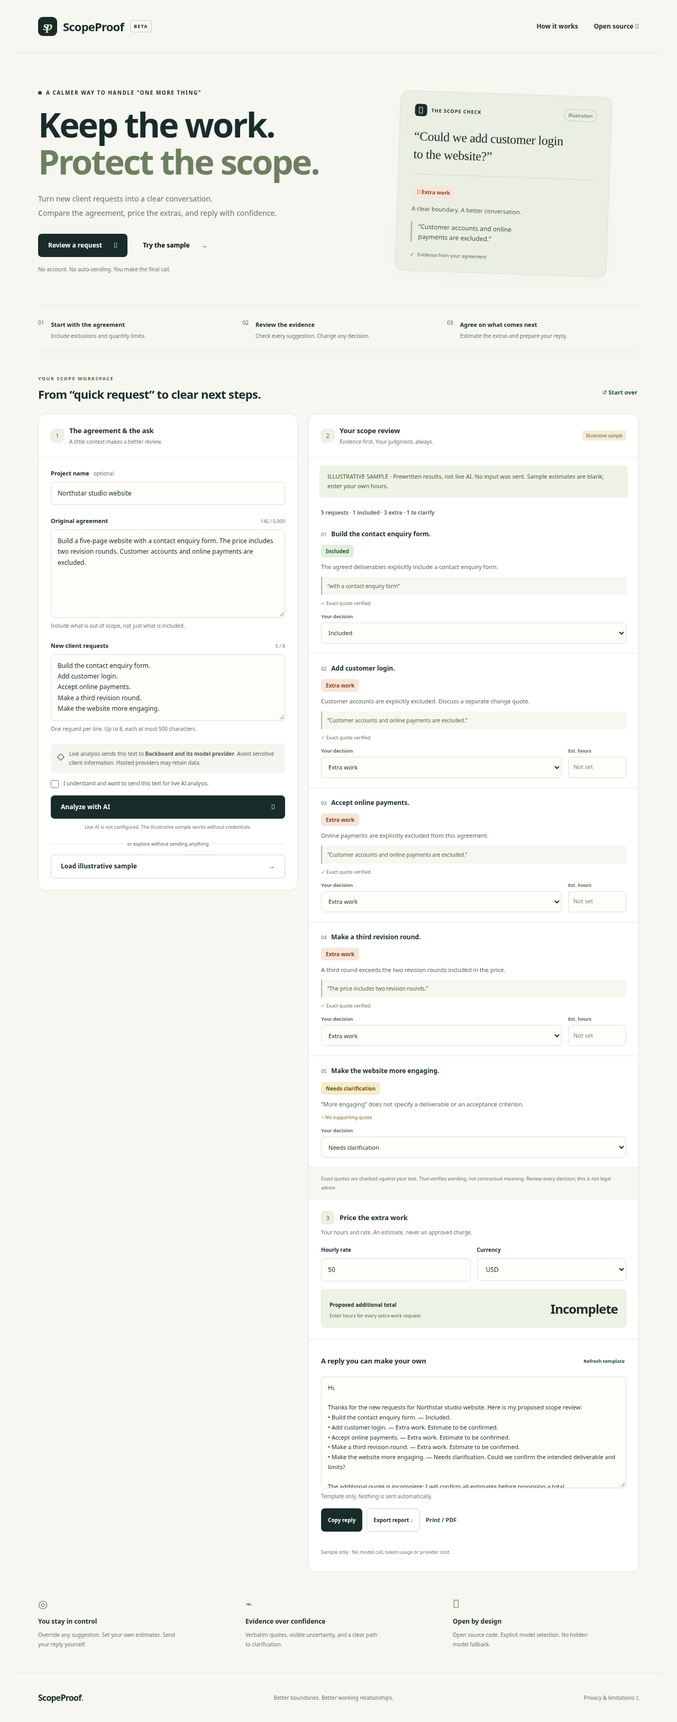
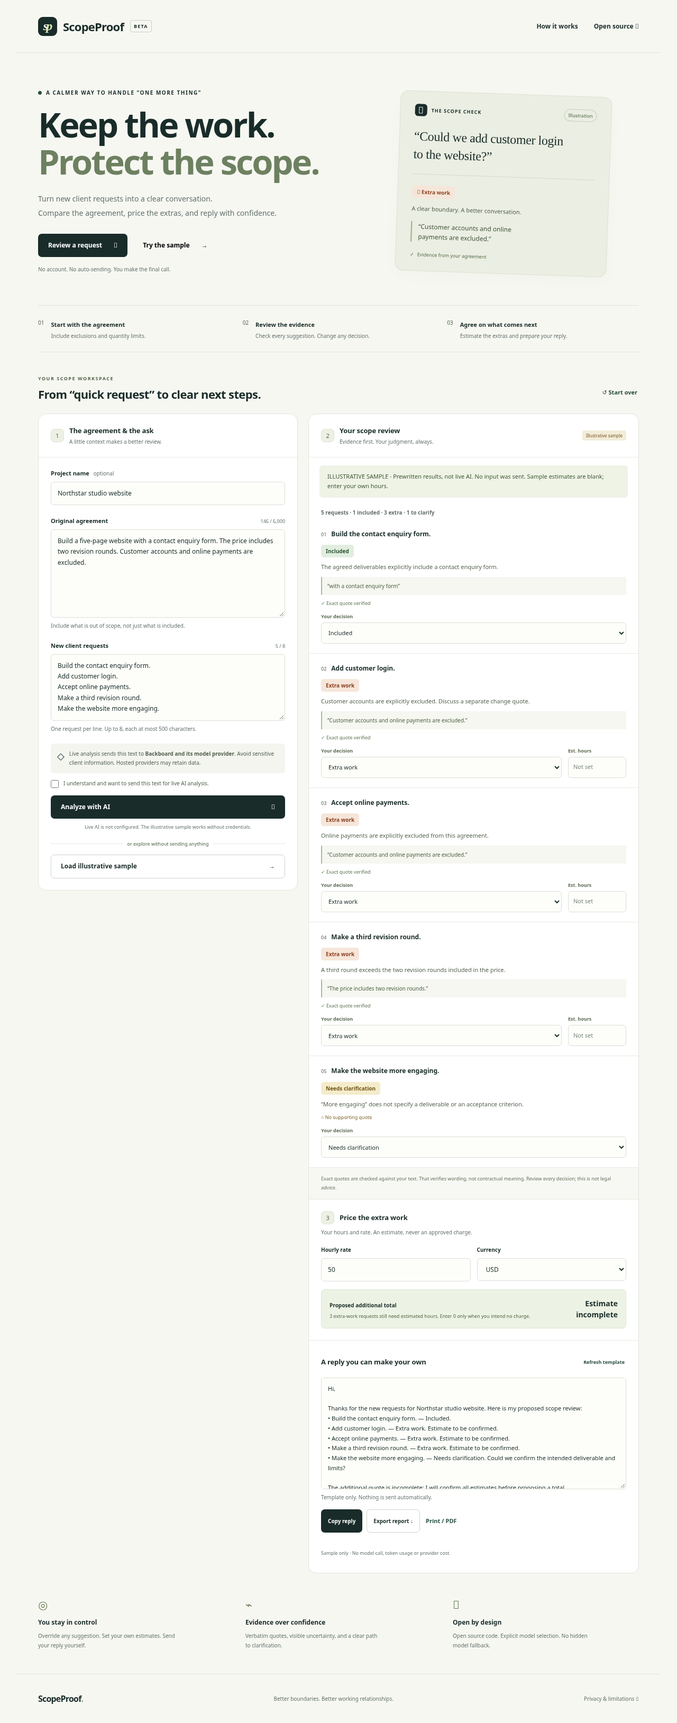
Clarify missing-hours quote status and refine evidence-based DEV draft

diff --git a/public/styles.css b/public/styles.css
@@ -1,5 +1,6 @@
 :root{--bg:#f7f7f2;--paper:#fff;--ink:#192c29;--muted:#62706b;--line:#dfe4db;--green:#294f40;--lime:#d9e9ac;--orange:#bd5b37;--red:#a3302b;--radius:15px;color-scheme:light;font-family:Inter,ui-sans-serif,system-ui,-apple-system,BlinkMacSystemFont,"Segoe UI",sans-serif;color:var(--ink);background:var(--bg);font-synthesis:none}*{box-sizing:border-box}body{margin:0}button,input,textarea,select{font:inherit}button,a,input,textarea,select{-webkit-tap-highlight-color:transparent}button,a{touch-action:manipulation}button{cursor:pointer}a{color:inherit;text-decoration:none}a:hover{text-decoration:underline}button:disabled{opacity:.6;cursor:wait}:focus-visible{outline:3px solid #3673c4;outline-offset:4px}input:focus,textarea:focus,select:focus{outline:2px solid var(--green);outline-offset:1px}[hidden]{display:none!important}.wrap{max-width:1220px;margin:auto;padding-inline:42px}.site-header{height:100px;display:flex;align-items:center;justify-content:space-between;border-bottom:1px solid var(--line)}.brand{display:flex;gap:11px;align-items:center;font-size:22px;font-weight:750;letter-spacing:-.8px}.brand-mark{display:inline-flex;border-radius:9px;background:var(--ink);color:var(--bg);height:36px;width:36px;align-items:center;justify-content:center;font-family:Georgia,serif;font-size:24px;gap:0;font-style:italic}.brand-mark span{color:var(--lime);margin-left:-3px}.beta{border:1px solid #c5cfc1;font-size:9px;letter-spacing:1.2px;border-radius:4px;padding:4px 6px;margin-left:1px;font-weight:600}.site-header nav{display:flex;gap:30px;font-size:12px;font-weight:600}.hero{display:grid;grid-template-columns:1.35fr 1fr;gap:64px;padding:67px 0 59px;align-items:center}.eyebrow{font-size:10px;letter-spacing:1.5px;font-weight:700;text-transform:uppercase;display:flex;align-items:center;gap:8px;margin:0 0 18px}.status-dot{display:inline-block;width:7px;height:7px;border-radius:50%;background:var(--green)}h1{font-size:clamp(44px,5.2vw,65px);font-weight:640;letter-spacing:-3px;line-height:1.08;margin:0 0 23px}h1 span{color:#6d8060}.hero-description{font-size:14px;line-height:1.9;color:var(--muted);margin:0 0 25px}.hero-actions{display:flex;gap:10px}.button{display:inline-flex;align-items:center;justify-content:center;gap:22px;font-size:12px;line-height:1.4;font-weight:650;padding:13px 18px;border-radius:7px;border:1px solid transparent;min-height:44px;text-decoration:none}.button:hover{text-decoration:none;filter:brightness(.95)}.primary{background:var(--ink);color:white}.secondary{background:white;color:var(--ink);border-color:#cbd4ca}.quiet{background:transparent}.hero-note{font-size:10px;color:var(--muted);margin:16px 0 0}.hero-card{background:#ebeee2;border:1px solid #dce1d0;padding:24px 27px;border-radius:var(--radius);transform:rotate(2deg);max-width:400px;margin:10px 4px 0 0;box-shadow:0 10px 30px #26392605}.card-caption{display:flex;align-items:center;gap:8px;font-size:9px;letter-spacing:1px;font-weight:750}.tiny-mark{display:flex;width:23px;height:23px;background:var(--ink);color:white;border-radius:6px;align-items:center;justify-content:center;font-size:17px}.example-pill{margin-left:auto;font-size:9px;text-transform:none;letter-spacing:0;font-weight:500;border:1px solid #c6d0bb;padding:4px 7px;border-radius:20px;color:#4b6044}.client-message{font-family:Georgia,serif;font-size:24px;line-height:1.4;letter-spacing:-.4px;margin:22px 0 20px}.example-rule{height:1px;background:#d3dbc9;margin-bottom:20px}.badge{font-size:10px;padding:5px 9px;display:inline-block;border-radius:5px;font-weight:700}.extra{background:#f6e6d9;color:#8e4022}.included{background:#e2ede0;color:#2d5734}.clarification{background:#f4ecca;color:#735619}.example-reason{font-size:11px;color:#54624e;margin:12px 0 17px}.hero-card blockquote{border-left:2px solid #9caf80;padding:0 0 0 12px;margin:0;color:#45573e;font-size:12px;line-height:1.6}.verified-line{font-size:9px;color:#526b48;margin-top:17px;display:flex;gap:6px}.steps{list-style:none;display:grid;grid-template-columns:repeat(3,1fr);padding:23px 0;margin:0;border-block:1px solid var(--line);gap:24px}.steps li{display:flex;gap:13px}.steps li>span{font-size:10px;color:#6a785c;padding-top:2px}.steps strong{font-size:11px;font-weight:700}.steps p{font-size:10px;color:var(--muted);margin:5px 0 0}.workspace-heading{display:flex;justify-content:space-between;align-items:flex-end;margin:43px 0 22px;gap:15px}.workspace-heading .eyebrow{font-size:9px;margin-bottom:8px;color:#68785e}.workspace-heading h2{font-size:22px;letter-spacing:-.6px;font-weight:650;margin:0}.text-button{font-size:11px;color:var(--green);background:none;border:0;padding:8px 3px;min-height:36px;font-weight:650}.text-button:hover{text-decoration:underline}.workspace-grid{display:grid;grid-template-columns:minmax(0,.88fr) minmax(0,1.12fr);gap:20px;align-items:start}.panel{border:1px solid var(--line);background:var(--paper);border-radius:var(--radius);overflow:hidden}.panel-heading{display:flex;align-items:center;gap:10px;border-bottom:1px solid #e9ece5;padding:22px 23px}.step-number{display:inline-flex;width:25px;height:25px;background:#edf1e5;border:1px solid #dce4d1;align-items:center;justify-content:center;color:#526844;font-size:11px;border-radius:7px;flex-shrink:0}.panel h3{margin:0;font-size:13px;letter-spacing:-.15px}.panel-heading p{font-size:10px;color:var(--muted);margin:5px 0 0}form{padding:22px 23px}label{display:block;font-size:11px;font-weight:650;margin-bottom:9px}.optional{font-weight:400;color:var(--muted);font-size:10px;margin-left:5px}input:not([type=checkbox]),textarea,select{width:100%;border:1px solid #d9dfd5;border-radius:6px;background:#fdfefa;color:var(--ink);font-size:12px;padding:11px 12px;line-height:1.7;min-height:43px}textarea{resize:vertical;display:block}textarea::placeholder,input::placeholder{color:#7a857e;opacity:1}.label-row{display:flex;align-items:baseline;justify-content:space-between;gap:8px;margin-top:22px}.counter{font-size:9px;color:var(--muted)}.field-help{font-size:10px;color:var(--muted);line-height:1.6;margin:7px 0 0}.privacy-note{display:flex;gap:9px;background:#f4f5ef;border-radius:6px;padding:11px 12px;margin:20px 0 11px}.privacy-note>span{font-size:18px;line-height:1.4}.privacy-note p{font-size:10px;color:#53614f;line-height:1.7;margin:0}.privacy-note strong{font-weight:650}.checkbox-label{display:flex;align-items:flex-start;gap:6px;font-size:10px;line-height:1.6;color:#51604c;margin-bottom:14px;font-weight:450}.checkbox-label input{accent-color:var(--green);margin:2px 3px 0 0;min-width:15px;min-height:15px}.full{width:100%;justify-content:space-between}.provider-status{font-size:9px;line-height:1.6;text-align:center;color:var(--muted);margin:9px 0 17px}.or-line{display:flex;align-items:center;gap:8px;color:#74816b;font-size:9px;margin:0 0 14px}.or-line:before,.or-line:after{content:"";height:1px;flex:1;background:#e3e7de}.review-panel{min-height:761px}.empty-state{padding:96px 20px 80px;text-align:center}.document-art{position:relative;width:73px;height:88px;margin:0 auto 28px;background:#f5f6ef;border:1px solid #dce3d3;border-radius:9px;transform:rotate(-7deg);padding:18px 14px;box-shadow:6px 6px 0 #f4f6f0}.document-art>div{height:4px;background:#d8e0cd;margin:7px 0;border-radius:2px}.document-art>div:first-child{width:65%;height:5px;margin:0 0 12px;background:#bdcbaa}.document-art>div:last-of-type{width:65%}.document-art>span{position:absolute;bottom:-8px;right:-12px;display:grid;place-items:center;width:29px;height:29px;color:#45653e;background:var(--lime);border:3px solid #fff;border-radius:50%;font-size:13px}.empty-state h4{font-size:17px;letter-spacing:-.3px;font-weight:600;margin:0 0 11px}.empty-state p{font-size:11px;line-height:1.9;color:var(--muted);margin:0 0 13px}.empty-chips{display:flex;justify-content:center;gap:6px;margin-top:47px;flex-wrap:wrap}.empty-chips span{font-size:9px;border:1px solid #e3e7dc;border-radius:20px;padding:6px 10px;color:#66745c;background:#fafbf7}.source-pill{font-size:8px;padding:4px 7px;background:#f2ecd9;color:#765725;margin-left:auto;border-radius:4px;white-space:nowrap}.notice,.error{font-size:11px;line-height:1.7;padding:12px 15px;margin:15px 20px;border-radius:6px;overflow-wrap:anywhere}.notice{background:#eef3e6;color:#435936}.error{background:#fcf0ee;color:var(--red);border:1px solid #edd1cb}.review-summary{font-size:10px;font-weight:600;line-height:1.7;color:var(--muted);padding:0 23px;margin:20px 0 4px}.review-row{padding:18px 23px;border-bottom:1px solid #e9ece5}.request-title{display:flex;gap:9px;align-items:baseline;margin-bottom:10px}.request-title span{font-size:9px;color:#718065}.request-title h4{font-size:12px;margin:0;font-weight:650;line-height:1.6;overflow-wrap:anywhere}.review-reason{font-size:11px;line-height:1.7;color:#56634f;margin:9px 0}.evidence{font-size:10px;line-height:1.8;margin:9px 0;background:#f5f7f0;border-left:2px solid #aabd91;padding:8px 10px;color:#506345;overflow-wrap:anywhere}.evidence-note{font-size:9px;color:#5d7350;margin:7px 0}.evidence-note.missing{color:#806429}.decision-controls{display:flex;align-items:end;gap:12px;margin-top:12px}.decision-controls>div:first-child{flex:1}.decision-controls label{font-size:9px;margin:0 0 5px;color:#5c6b54}.decision-controls select,.decision-controls input{font-size:11px;min-height:40px;padding:7px 9px}.hours-control{width:110px}.override-note{font-size:9px;color:#8d4b2d;margin:8px 0 0}.review-caution{font-size:9px;line-height:1.8;background:#f7f8f3;padding:13px 23px;margin:0;color:#63715c}.quote-section,.reply-section{padding:22px 23px;border-top:1px solid #e4e9df}.section-label{display:flex;align-items:center;gap:10px}.quote-controls{display:grid;grid-template-columns:1fr 1fr;gap:12px;margin-top:18px}.quote-controls label{font-size:10px}.quote-total{display:flex;justify-content:space-between;align-items:center;gap:12px;background:#edf3e4;border:1px solid #dce6d0;padding:15px;border-radius:7px;margin-top:15px}.quote-total span{font-size:10px;font-weight:600}.quote-total small{display:block;font-size:9px;color:#647657;margin-top:5px}.quote-total strong{font-size:24px;letter-spacing:-1px}.quote-section .error{margin:12px 0}.reply-heading{display:flex;align-items:center;justify-content:space-between;gap:10px;margin-bottom:12px}.reply-heading h3{max-width:215px;line-height:1.6}.reply-heading button{font-size:9px}.reply-section textarea{font-size:11px}.export-actions{display:flex;gap:8px;margin-top:15px;flex-wrap:wrap}.export-actions .button{font-size:10px;padding:11px 12px;gap:5px}.analysis-meta{font-size:9px;color:var(--muted);padding:0 23px 20px;line-height:1.8}.principles{display:grid;grid-template-columns:repeat(3,1fr);gap:40px;padding:45px 0}.principles>div>span{font-size:21px;color:#667b53}.principles h3{font-size:12px;margin:11px 0 8px;font-weight:650}.principles p{font-size:10px;line-height:1.8;color:var(--muted);max-width:260px;margin:0}footer{display:flex;justify-content:space-between;gap:20px;align-items:center;border-top:1px solid var(--line);min-height:93px}footer .brand{font-size:16px;gap:0}.footer-dot{color:#81966b}footer p,footer>a:last-child{font-size:10px;color:var(--muted)}.sr-only,.skip-link{position:absolute;left:-10000px;top:auto;width:1px;height:1px;overflow:hidden}.skip-link:focus{position:fixed;left:16px;top:16px;width:auto;height:auto;z-index:20;padding:12px;background:white}#print-report{display:none}
 .steps li>span,.workspace-heading .eyebrow,.or-line,.request-title span,.quote-total small{color:#526348}
+.quote-total>div{min-width:0}.quote-total strong.estimate-incomplete{font-size:14px;line-height:1.5;letter-spacing:0;max-width:105px;text-align:right;flex-shrink:0}
 @media(min-width:1300px){.hero{padding-top:76px;padding-bottom:68px}.hero-card{justify-self:end;width:380px}}
 @media(max-width:900px){.wrap{padding-inline:25px}.hero{gap:25px;grid-template-columns:1.2fr 1fr}.hero-card{padding:19px}.client-message{font-size:21px}h1{font-size:51px}.hero-description{font-size:12px}.hero-actions{gap:0}.button{gap:12px}.workspace-heading h2{font-size:20px}.workspace-grid{grid-template-columns:minmax(0,.9fr) minmax(0,1.1fr);gap:14px}.panel-heading,form,.review-row,.quote-section,.reply-section{padding-inline:18px}.source-pill{max-width:75px;white-space:normal}.steps{gap:14px}.steps p{line-height:1.6}.reply-heading{align-items:start}.quote-total strong{font-size:21px}}
 @media(max-width:680px){.wrap{padding-inline:20px}.site-header{height:78px}.brand{font-size:20px}.site-header nav{gap:16px;font-size:10px}.site-header nav a:first-child{display:none}.hero{display:block;padding:39px 0}.eyebrow{font-size:8px;letter-spacing:1.2px;margin-bottom:17px}h1{font-size:49px;letter-spacing:-2.2px}.hero-description{font-size:12px;line-height:1.8}.desktop-break{display:none}.hero-actions .button{font-size:11px;gap:15px}.hero-note{font-size:9px}.hero-card{margin:36px auto 0;transform:rotate(1deg);max-width:100%;padding:22px 24px}.client-message{font-size:23px}.hero-card br{display:none}.hero-card blockquote{font-size:11px}.steps{grid-template-columns:1fr;padding:22px 0;gap:17px}.steps li{gap:15px}.steps p{margin-top:4px}.steps strong{font-size:11px}.workspace-heading{margin:31px 0 18px;align-items:start}.workspace-heading h2{font-size:21px;line-height:1.4;max-width:245px}.workspace-heading .text-button{font-size:9px;white-space:nowrap}.workspace-heading .eyebrow{font-size:8px}.workspace-grid{grid-template-columns:1fr;gap:18px}.panel-heading,form,.review-row,.quote-section,.reply-section{padding-inline:20px}.panel-heading{padding-block:20px}.review-panel{min-height:480px}.empty-state{padding:65px 15px 40px}.empty-chips{margin-top:28px}.source-pill{max-width:none}.principles{grid-template-columns:1fr;gap:24px;padding-block:34px}.principles>div{display:grid;grid-template-columns:26px 1fr;column-gap:12px}.principles h3{margin:2px 0 6px}.principles p{grid-column:2;max-width:100%}.principles>div>span{grid-row:1/3}footer{flex-wrap:wrap;gap:8px;padding-block:22px}footer p{order:3;width:100%;margin:4px 0 0}footer>a:last-child{font-size:9px}.notice,.error{margin-inline:16px}.reply-heading h3{font-size:12px}.source-pill{font-size:8px}}

diff --git a/test/browser.py b/test/browser.py
@@ -29,8 +29,26 @@ with sync_playwright() as p:
     expect(page.locator('#review-source')).to_have_text('Illustrative sample')
     expect(page.locator('.review-row')).to_have_count(5)
     expect(page.locator('#notice')).to_contain_text('not live AI')
-    expect(page.locator('#quote-total')).to_have_text('Incomplete')
+    expect(page.locator('#quote-total')).to_have_text('Estimate incomplete')
+    expect(page.locator('#quote-detail')).to_contain_text('3 extra-work requests still need estimated hours')
     passed('clearly labelled sample and incomplete estimates')
+    for i in (2, 3, 4):
+        page.locator(f'#hours-{i}').fill('0')
+    expect(page.locator('#quote-total')).to_have_text('$0.00')
+    expect(page.locator('#reply')).to_have_value(re.compile('Proposed additional total: \\$0.00'))
+    page.locator('#hours-3').fill('')
+    expect(page.locator('#quote-total')).to_have_text('Estimate incomplete')
+    expect(page.locator('#quote-detail')).to_contain_text('1 extra-work request still needs estimated hours')
+    expect(page.locator('#reply')).to_have_value(re.compile('quote is incomplete'))
+    passed('explicit zero hours completes an estimate; clearing hours restores missing-input status')
+    with page.expect_download() as incomplete_event:
+        page.locator('#export').click()
+    incomplete_event.value.save_as(str(OUT / 'incomplete-export.txt'))
+    incomplete_report = (OUT / 'incomplete-export.txt').read_text()
+    assert 'Request 3: not estimated' in incomplete_report
+    assert 'Total: incomplete' in incomplete_report
+    assert 'Proposed additional total:' not in incomplete_report
+    passed('incomplete report export identifies missing hours and never invents a final quote')
     for i, hours in [(2, '1.25'), (3, '2'), (4, '0.5')]:
         page.locator(f'#hours-{i}').fill(hours)
     page.locator('#rate').fill('19.99')

diff --git a/docs/dev-submission.md b/docs/dev-submission.md
@@ -4,96 +4,83 @@
 
 “Could we add customer login? It should be a quick change.”
 
-The difficult part is often not estimating the code. It is explaining, calmly and specifically, why the request changes the agreement.
+For a freelancer, that request can change the agreement, the price and the working relationship.
 
-**ScopeProof turns that moment into a reviewable scope conversation.** Paste the original agreement and the client's new requests. An explicitly selected open-weight model suggests **Included**, **Extra work**, or **Needs clarification** for each request, with a short reason and a supporting scope quote where available.
+I wanted ScopeProof to make that conversation easier. It compares an agreement with new client requests and suggests **Included**, **Extra work**, or **Needs clarification**, alongside a short reason and a supporting quote when available. The freelancer can change every decision, enter estimates, edit a reply and export the review. Nothing is sent automatically.
 
-Then the freelancer takes over: change any decision, enter their own hours and rate, edit a client reply, and export the review. Nothing is sent to the client automatically.
-
-The potential buyer is a freelance developer or small studio that regularly negotiates changes. The paid value would be a consistent review and communication workflow, not another chatbot subscription. A modest paid version could offer reusable agreement templates and persistent change histories. Those are future ideas: this entry has **no paying customers, revenue or claimed user feedback**. I kept the actual product small enough to demonstrate and inspect.
+Freelance developers and small studios are the potential buyers. They might pay for a repeatable way to review changes and prepare a clear response. I have not validated that willingness to pay or claimed customers, revenue or feedback. My goal for this entry was a small, usable workflow with evidence behind its suggestions.
 
 ## Demo
 
-**[Try ScopeProof on Render](https://scopeproof.onrender.com)** · **[View the source](https://github.com/tanzilamd/scopeproof)**
+**[Open ScopeProof on Render](https://scopeproof.onrender.com)** · **[Public repository](https://github.com/tanzilamd/scopeproof)**
 
-The service uses Render's free compute plan, so a cold start can take a little time. Live AI is deliberately limited; the labelled sample remains usable without a paid inference call.
+The free Render service may need time to wake up. Start with **Load illustrative sample**: it is labelled prewritten output, makes no model call and sends nothing. For real inference, acknowledge the hosted-AI disclosure and select **Analyze with AI**.
 
-For a quick walkthrough:
+Here is the fictional before-and-after example:
 
-1. Select **Load illustrative sample**. This is explicitly prewritten output; it does not claim to be a model response and sends nothing.
-2. The fictional agreement includes a five-page website, a contact form and two revision rounds. It excludes customer accounts and online payments.
-3. Compare “Build the contact enquiry form” with “Add customer login” and “Make a third revision round.” Read the agreement quotes beside the suggestions.
-4. Change a decision. Enter your own hours and hourly rate for the extra work. The quote updates in code; the model never invents a price.
-5. Edit the reply and export a report. It includes the original scope, evidence, your overrides, estimates and edited reply. Use print to save a PDF.
+- **Agreement:** a five-page website, a contact form and two revision rounds. “Customer accounts and online payments are excluded.”
+- **New requests:** build the contact form, add login and make a third revision round.
+- **Review:** the form is included; login conflicts with an exclusion; the third revision exceeds the stated limit. Each definitive suggestion has a scope quote to inspect.
+- **Next step:** choose the final decisions, enter your own hours and rate, then edit the proposed reply. For illustration, two extra hours at $50/hour produce a proposed $100 estimate, still requiring client approval.
 
-To make a **real** inference call, acknowledge the hosted-AI disclosure and choose **Analyze with AI**. Do not paste confidential client information into a public demo.
+Export the scope, quotes, overrides, estimates and edited reply as text, or print to PDF.
+
+![The actual ScopeProof interface before loading a sample or live result](https://raw.githubusercontent.com/tanzilamd/scopeproof/main/docs/screenshots/overview.png)
+
+A [live-analysis screenshot](https://github.com/tanzilamd/scopeproof/blob/main/docs/screenshots/live-review-local.png) records the local app using real Backboard inference, separately from the illustrative sample.
 
 ## Code
 
 {% github tanzilamd/scopeproof %}
 
-The application is MIT licensed. The repository includes [setup instructions](https://github.com/tanzilamd/scopeproof#quick-start), the [architecture](https://github.com/tanzilamd/scopeproof/blob/main/docs/architecture.md), [test notes](https://github.com/tanzilamd/scopeproof/blob/main/docs/testing.md), and [actual evaluation records](https://github.com/tanzilamd/scopeproof/tree/main/docs/evidence).
+The code is MIT licensed, with [setup instructions](https://github.com/tanzilamd/scopeproof#quick-start), [architecture notes](https://github.com/tanzilamd/scopeproof/blob/main/docs/architecture.md) and [recorded test evidence](https://github.com/tanzilamd/scopeproof/tree/main/docs/evidence).
 
 ## How I Built It
 
-The connected repository initially held only a README and MIT license. I built the application from scratch with **OpenAI Codex assistance**, including implementation, tests and this write-up. No missing source archive or previous “syntax check” was treated as existing work.
+I built ScopeProof with OpenAI Codex assistance for implementation and testing.
 
-The stack is intentionally plain: **one Node.js 24 web service on Render**, static HTML/CSS/JavaScript, and **no production package dependencies**. There is no login, database, payment system or autonomous client messaging. Backboard credentials are used only by the server. Render and DEV publishing credentials are not deployed with the application.
+I kept the architecture to one Node.js 24 application on Render, with static HTML, CSS and JavaScript and no production package dependencies. No login or database is needed for the workflow. Only the server uses the Backboard key; deployment and publishing credentials stay out of the application.
 
-Backboard routes the live review to **Qwen3-32B**, explicitly selected as `qwen/qwen3-32b` through OpenRouter. The model's weights are published by the Qwen team under **Apache 2.0**. Every analysis starts a separate conversation, with memory and web search off; the application attempts to delete the temporary thread afterward. That is not a zero-retention promise: Backboard and downstream providers can retain data under their policies.
+Live analysis explicitly selects **Qwen3-32B** as `qwen/qwen3-32b` through Backboard's OpenRouter integration. Its weights are published by the Qwen team under **Apache 2.0**. Each analysis starts a separate conversation with memory and web search off, followed by an attempt to delete the temporary thread. There is no silent fallback to a closed model.
 
-### The model suggests. The application checks. The freelancer decides.
+I wanted evidence people could inspect. The server requires each request ID exactly once. A quote must be an exact substring of the supplied agreement. An invented quote is removed; a definitive suggestion without verified supporting text becomes **Needs clarification**.
 
-I did not want a confident-looking label to become fake contractual evidence.
+A matching quote proves wording, not interpretation. That is why the person reviewing the request keeps the final decision. Money is calculated in code from user-entered hours, rate and currency, with each line rounded before summing. Missing hours show “Estimate incomplete” with the number of estimates still needed; explicitly entered zero hours are valid. Changing the agreement invalidates old results.
 
-The server accepts only a complete structured result containing each request ID exactly once. A supporting quote must be an **exact, contiguous substring** of the supplied agreement. Invented or paraphrased evidence is removed. A definitive suggestion without a verified quote is downgraded to **Needs clarification**.
+### What the recorded checks show
 
-This check proves that words appear in the agreement. It does **not** prove that the model interpreted those words correctly. That distinction is why every suggestion remains editable, uncertainty stays visible, and the reply asks for written approval before extra work begins.
+- **49 automated tests passed:** validation, quotation checks, arithmetic, overrides, provider failures, timeouts and limits. Provider integrations in this suite are mocked.
+- **18 Chromium checks passed:** desktop/mobile workflow, edited replies, exports, stale results, reset, safe text rendering, print and keyboard navigation. AI responses in this suite are mocked. Populated desktop/mobile axe scans reported zero WCAG 2.1 A/AA violations; this is not a full accessibility audit.
+- **One separate unmocked browser-to-local-app-to-Backboard check** returned the five expected sample labels, verified quotes and 11.96-second model-response latency. It is a repeat of the sample, not five new evaluation examples.
 
-Hours, rates and currency are user inputs. The quote calculation uses integer currency minor units and rounds each line before summing. Missing estimates stay incomplete. Editing the original text invalidates the old review; a response arriving after an edit is discarded. Editing an estimate preserves a custom reply and asks the user to review or refresh it.
+The live comparison used eight fixed synthetic requests: included work, exclusions, limits, ambiguity and hostile instructions. Expected labels preceded inference. Both models used the same prompt and validator through one Backboard key:
 
-### What I actually tested
-
-The deterministic suite has **49 passing tests** covering malformed results, missing/duplicate IDs, invented quotes, quote arithmetic, overrides, input limits, credentials, provider failures, timeouts, quotas and model-identity checks. Those provider integrations are mocked; they are not model-quality evidence.
-
-Separately, **16 real Chromium checks** exercised the desktop/mobile workflow, report consistency, edited replies, reset, stale responses, literal rendering of hostile text, print and keyboard skip navigation. The AI success/error cases in that browser suite are mocked. Automated axe-core scans reported **zero WCAG 2.1 A/AA violations** in the populated desktop and mobile views after fixes. That is useful coverage, not a claim of full accessibility certification.
-
-I also clicked through a separate **unmocked browser → local application → Backboard** test. It returned all five expected sample labels from Qwen3-32B, with verified quote text and 11.96-second provider latency. That result and a clearly distinguished live-inference screenshot are in the repository; it is not counted as another five independent evaluation examples.
-
-For live evidence I wrote a small, fixed set of **eight synthetic requests**, with expected labels recorded before inference: ordinary included work, explicit exclusions, a page-count overrun, a third revision, ambiguity, unknown revision consumption, and hostile instructions embedded in the agreement and request.
-
-Using the same prompt and conservative validator through one Backboard key:
-
-| Open-weight model | Six-request ordinary/limits case | Two-request hostile/uncertain case |
+| Model | Six-request scope/limits case | Two-request hostile/uncertain case |
 | --- | --- | --- |
-| Qwen3-32B | 6/6 expected labels; 27.2 seconds | 2/2 expected labels; 16.8 seconds |
-| Qwen3.5-9B | Timed out at the configured 45-second limit; no result accepted | 2/2 expected labels; 40.7 seconds |
+| Qwen3-32B | 6/6 expected labels; 27.2 s | 2/2 expected labels; 16.8 s |
+| Qwen3.5-9B | Timed out at the 45 s limit; no result accepted | 2/2 expected labels; 40.7 s |
 
-The smaller model's timeout is an operational outcome, **not six wrong answers**. Eight hand-written requests are far too few for a general accuracy benchmark or a guarantee against prompt injection. These are the application's accepted decisions after validation, not an isolated raw-model benchmark. A second run of the same Qwen3-32B fixtures also matched the expected labels; it is retained as a repeat, not described as eight additional independent examples.
+The timeout is not six wrong answers. These accepted, post-validation results are a small diagnostic set, not a general benchmark or injection-resistance guarantee. The [raw comparison](https://github.com/tanzilamd/scopeproof/blob/main/docs/evidence/comparison.json) preserves the outcomes. It supported keeping Qwen3-32B for this demo. A catalogue-listed Qwen3-8B candidate also returned a provider deprecation error, reinforcing the need to verify actual inference.
 
-One finding changed the plan: **catalogue availability is not inference availability**. Qwen3-8B appeared in Backboard's catalogue, but its provider returned a deprecation error. Qwen3-14B and an older Qwen3-235B candidate also failed to run. I kept those failures in the evidence and never silently fell back to a closed model.
-
-The first successful five-request Qwen3-32B smoke test was billed at **$0.000145**. Recorded model calls cost fractions of a cent; exact billing events and observed balance changes are in the evidence. These are observed test costs, not a promise about future pricing or the total cost of running a public service. Auto-reload was verified off. The reported $50 Render promotional credit could not be independently verified through its public API, so I chose free compute instead of relying on it.
+The first successful five-request smoke call was billed at **$0.000145**. The recorded Backboard account balance change through the local live-browser check was **$0.001505**, with auto-reload off. [Billing evidence](https://github.com/tanzilamd/scopeproof/blob/main/docs/evidence/costs.json) records the observation; it is not a forecast of public-service costs. Render uses free compute because the reported promotional credit could not be independently verified through its public API.
 
 ## Why Does Open Innovation Matter?
 
-A scope-review tool should not require its rules, evidence checks and commercial future to depend on one model vendor.
+Qwen's published weights and permissive license make a different host, quantization or future local deployment possible while retaining the same scope fixtures, quote checks and review workflow. The MIT application code makes those checks inspectable too.
 
-Here the practical benefit is **an inspectable path to changing the inference layer**. Qwen publishes weights and a permissive license. Another developer can adapt the integration to a different host, evaluate a quantized version, or investigate a local deployment while keeping the same request fixtures, quote checks and human-approval workflow. Model access and weights are not owned by ScopeProof.
+That flexibility matters for freelancers serving clients with different confidentiality requirements and for a small business watching its costs. Backboard made the two-model comparison possible through one key. The slower model's outcome showed why catalogue pricing alone was insufficient for my choice.
 
-That matters for a freelance tool because clients can have different confidentiality constraints and a small business can have very different unit economics. The two-model Backboard comparison let me test an alternative without acquiring another provider account. Its timeout also prevented me from choosing a smaller model merely because its catalogue price looked attractive.
-
-I have **not** implemented local inference, measured a closed-model baseline, or proved a privacy or cost advantage over closed APIs. Today's demo sends text to hosted services. The open advantage demonstrated here is a reproducible evaluation and a credible ability to change the model or host, with the application logic available under MIT.
+The current app still uses hosted inference. I have not implemented offline operation or measured an advantage over a closed-model baseline.
 
 ## Prize Categories
 
-- **Best Use of Render:** Render hosts the complete Node application, including the server-side AI integration, static interface and health endpoint.
-- **Best Use of Backboard:** I compared two explicitly selected, Apache-2.0 open-weight models through one Backboard key, publishing the fixed cases, accepted classifications, latency, billing evidence and timeout. I also documented catalogue entries that could not actually run.
+- **Best Use of Render:** the single Render service hosts the interface and server-side AI integration.
+- **Best Use of Backboard:** the project compares two open-weight models through one Backboard key, with reproducible fixtures, classifications, latency and a recorded timeout. This goes beyond an API-use claim.
 
-### Boundaries I kept visible
+### Practical boundaries
 
-ScopeProof is a review aid, not legal advice, an invoice, or proof that a client approved a change. Quotes can be real yet misinterpreted. User input can contain hostile instructions. The app has timeouts, bounded inputs, concurrency and request limits, but those **in-memory limits reset and are not guaranteed account spending caps**. A commercial version would need persistent quotas and stronger abuse controls. The public service is a limited demo.
+Live input goes to Backboard and its model provider; memory off and attempted thread deletion do not guarantee zero retention. Avoid confidential client material. Models can misread a real quote or follow hostile text. ScopeProof is not legal advice, an invoice or proof of approval.
 
-No customers, screenshots, feedback or benchmarks were invented. Screenshots accompanying the repository are captures of the actual application, with sample and live views distinguished. Credits: the **Qwen team** for the models; **Backboard, OpenRouter and Render** for hosted services; **Playwright** (Apache 2.0) and **axe-core** (MPL 2.0) for test tooling; and **OpenAI Codex** for AI-assisted development and writing.
+The demo has bounded inputs, timeouts and request limits. Its in-memory quotas reset on restart and are not guaranteed account spending caps. Human review and written client approval remain part of the workflow.
 
-The goal is small: make “one more thing” easier to discuss with evidence, a proposed price, and room for a human to disagree.
+Credits: the **Qwen team** for Apache-2.0 models; **Backboard, OpenRouter and Render** for hosted services; **Playwright** (Apache 2.0) and **axe-core** (MPL 2.0) for test tooling; and **OpenAI Codex** for implementation and testing assistance.

diff --git a/docs/testing.md b/docs/testing.md
@@ -10,7 +10,7 @@ These tests mock inference. They verify application behavior, not semantic model
 
 ## Browser checks
 
-Real system Chromium with Python Playwright 1.62.0: **16 checks passed**. Desktop 1440px and mobile 390px; sample identification; overrides; quote arithmetic; edited replies; export consistency; clipboard behavior/fallback; invalid quote inputs; source-edit invalidation; visible provider failure; literal malicious-text rendering; discarded in-flight stale results; reset; print; keyboard skip navigation; no JavaScript errors. AI success/error cases in this suite are explicitly network-mocked and make no paid calls.
+Real system Chromium with Python Playwright 1.62.0: **18 checks passed**. Desktop 1440px and mobile 390px; sample identification; overrides; quote arithmetic; edited replies; export consistency; clipboard behavior/fallback; invalid quote inputs; source-edit invalidation; visible provider failure; literal malicious-text rendering; discarded in-flight stale results; reset; print; keyboard skip navigation; no JavaScript errors. AI success/error cases in this suite are explicitly network-mocked and make no paid calls.
 
 Pinned axe-core 4.14.0 found **zero WCAG 2.1 A/AA violations** in populated desktop/mobile scans after contrast and accessible-name fixes. Scans use reduced motion so transient row fade opacity does not distort contrast measurements. This is automated coverage, not a claim of full WCAG conformance or a screen-reader audit. Actual browser screenshots are captured by the suite in ignored `test-results/`; publication screenshots are labelled separately.
 
@@ -29,3 +29,7 @@ The final comparison used Qwen3.5-9B (Apache 2.0, official model card and Backbo
 An additional **real, unmocked browser→local Node server→Backboard** check exercised the full live-analysis button with consent. It returned HTTP 200, confirmed Qwen3-32B, matched the five expected sample classifications, and verified the returned quotes; provider-analysis latency was **11.960 seconds**. The screenshot and response are recorded in `docs/screenshots/live-review-local.png` and `docs/evidence/local-live-browser.json`. This validates the local application plus real hosted inference; it is separate from public Render verification. `test/live-browser.py` reproduces the workflow against a configured local or public server, with an explicit paid-call opt-in.
 
 Eight hand-authored requests are not a benchmark, guarantee against injection, contract interpretation validation, or evidence of universal accuracy. Matching expected labels after conservative validation does not isolate raw-model accuracy. No claims of customers, feedback, revenue or superiority over a closed model are made.
+
+## Missing-estimate status clarification
+
+The original “Incomplete” quote label meant one or more Extra work requests had blank estimated hours, not an unfinished feature. The UI now says **Estimate incomplete** and counts the requests still needing hours. Browser checks verify blank → explicit zero → cleared input → entered hours transitions, and confirm an incomplete exported report identifies unknown hours without inventing a final total. The existing deterministic tests distinguish missing and zero hours. The current 18 browser checks and 49 automated tests passed after this copy/layout change. These deterministic quote interactions make no paid AI calls.

diff --git a/README.md b/README.md
@@ -36,7 +36,7 @@ First verify the current Backboard catalogue, actual inference availability, pri
 1. Load the clearly labelled sample, or enter the real agreement, exclusions and limits, then one request per line.
 2. For live inference, acknowledge that input is sent to hosted AI services and select **Analyze with AI**.
 3. Read each reason and supporting quote. Change any decision using its dropdown.
-4. Enter your own hours for extra work, rate and currency. Missing hours keep the quote incomplete. Each line rounds to the currency's minor unit before summing; tax, discounts and contractual payment terms are outside scope.
+4. Enter your own hours for extra work, rate and currency. **Estimate incomplete** means one or more extra-work requests still have blank hours; the help text counts them. Enter `0` only when you intentionally estimate no charge. Each line rounds to the currency's minor unit before summing; tax, discounts and contractual payment terms are outside scope.
 5. Edit the client reply, copy it, export a text report, or print/save PDF. The report includes your overrides and edited reply. Nothing is sent automatically.
 
 Editing the agreement or requests invalidates the old review. Results arriving after an input change are discarded. Editing estimates preserves your custom reply and asks you to check or refresh it.

diff --git a/docs/screenshots/README.md b/docs/screenshots/README.md
@@ -2,7 +2,10 @@
 
 - `overview.png`: real local Chromium capture of the landing page and empty workspace. No AI output is shown.
 - `illustrative-sample.png`: real local full-page capture after loading the clearly labelled prewritten sample. No inference was made for this screenshot.
+- `estimate-incomplete-mobile.png`: current real mobile capture of the clarified **Estimate incomplete** status and missing-hours help. It reflects blank user estimates, not unfinished functionality.
 - `mobile-overview.png`: real local 390px Chromium capture of the initial interface.
 - `live-review-local.png`: real browser capture of a local Node server's successful, unmocked Backboard analysis through Qwen3-32B. This screenshot is live inference, distinct from sample output; corresponding response evidence is in `docs/evidence/local-live-browser.json`.
 
 These images are screenshots of the implemented application, not generated mockups. Public live-inference screenshots, if present, are documented separately with their request evidence.
+
+The earlier live-inference capture preserves the original “Incomplete” quote label. That historical label also meant missing user-entered hours; the inference evidence has not been replaced or reconstructed.
